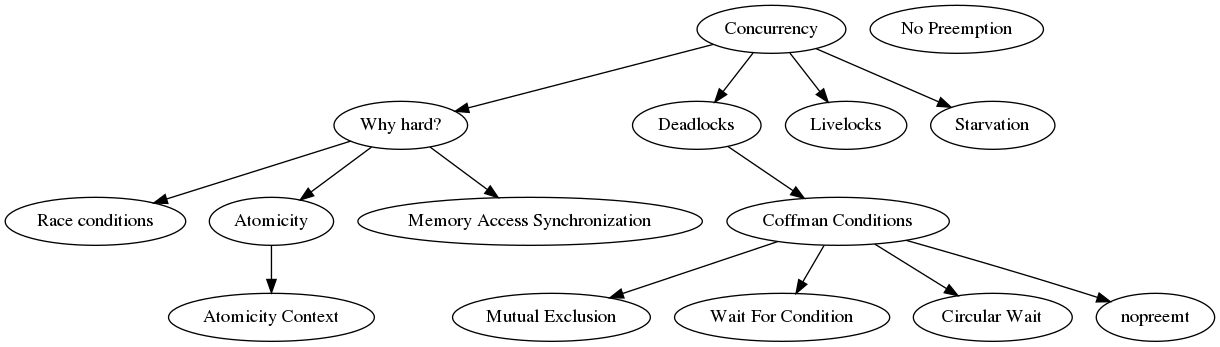
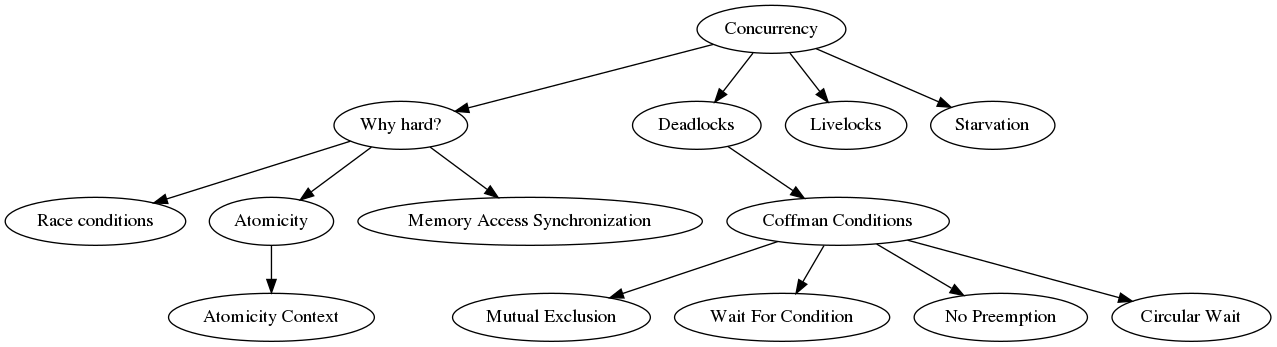
update README

diff --git a/README.md b/README.md
@@ -10,6 +10,11 @@ It's hard.
 
 ![](mch1.png)
 
+### Cofman Conditions
+
+If at least one of the conditions is not true, we can *prevent* deadlocks (but
+it's hard to reason about code).
+
 ## Modeling
 
 ## Building blocks
